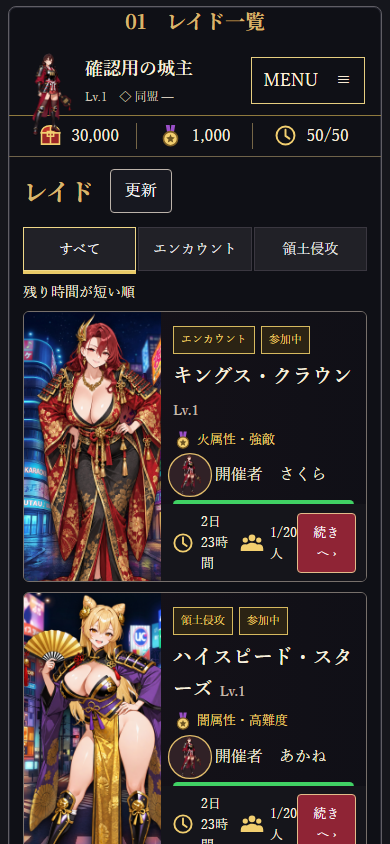
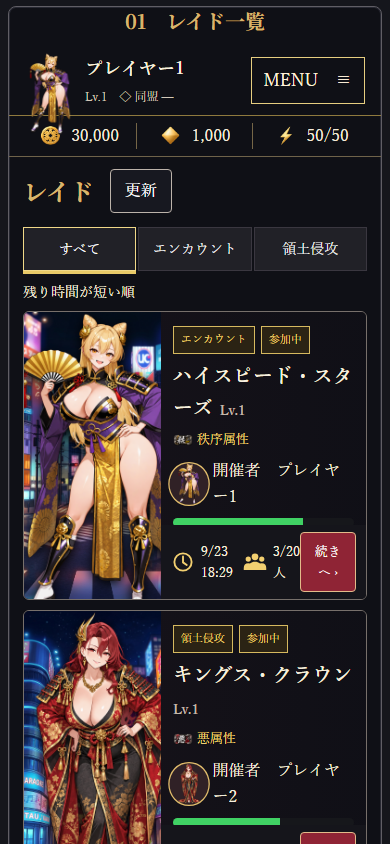
feat: integrate raid approved visual and formal data display

diff --git a/src/app/qa/raid-approved/ApprovedRaidPreview.tsx b/src/app/qa/raid-approved/ApprovedRaidPreview.tsx
@@ -1,59 +1,24 @@
 'use client';
-
-import { useState } from 'react';
-import { RAID_TOP_ENEMIES } from '@/domain/raidTopAssets';
+import { useMemo, useState } from 'react';
+import type { RaidTopEntry, RaidTopEnemy } from '@/domain/raidTop';
+import { createTopFixture } from '@/app/qa/raid-top/topFixture';
 import './ApprovedRaidPreview.css';
 
 type IconName = 'clock' | 'people' | 'swords' | 'scroll' | 'handshake' | 'chest' | 'armor' | 'victory' | 'medal';
 const icon = (name: IconName, label = '') => <img className="raid-approved__icon" src={`/ui/raid/${name}.svg`} alt={label} />;
-
-function ResourceHeader() {
-  return <>
-    <header className="raid-approved__header">
-      <div className="raid-approved__user"><img src="/characters/sakura_transparent_asset.png" alt="" /><div><strong>確認用の城主</strong><span>Lv.1　◇ 同盟 —</span></div></div>
-      <button className="raid-approved__menu" type="button">MENU　≡</button>
-    </header>
-    <div className="raid-approved__resources"><span>{icon('chest')}30,000</span><span>{icon('medal')}1,000</span><span>{icon('clock')}50/50</span></div>
-  </>;
-}
-
-function Footer() {
-  return <nav className="raid-approved__footer" aria-label="メインナビゲーション">{[
-    ['08-castle', 'ホーム'], ['04-fan-sakura', 'クエスト'], ['10-helmet', 'キャラ'], ['06-oni-mask', 'レイド'], ['11-ticket', 'ガチャ'],
-  ].map(([asset, label]) => <button className={label === 'レイド' ? 'is-active' : ''} key={label} type="button"><img src={`/ui/sengoku/${asset}.png`} alt="" /><span>{label}</span></button>)}</nav>;
-}
-
-function Hero({ enemy, compact = false }: { enemy: typeof RAID_TOP_ENEMIES[number]; compact?: boolean }) {
-  return <div className={`raid-approved__hero ${compact ? 'is-compact' : ''}`}>
-    <img className="raid-approved__hero-bg" src={enemy.backgroundUrl} alt="" />
-    <img className="raid-approved__hero-character" src={enemy.leaderImageUrl} alt="" />
-    <div className="raid-approved__hero-shade" />
-    <div className="raid-approved__boss-title"><h2>{enemy.bossName} <small>Lv.1</small></h2><span>{icon('medal')} 闇属性</span></div>
-  </div>;
-}
-
-function Owner({ name = 'あかね' }: { name?: string }) { return <div className="raid-approved__owner"><img src="/characters/sakura_transparent_asset.png" alt="" /><strong>開催者　{name}</strong></div>; }
-function Hp({ detail = false }: { detail?: boolean }) { return <div className="raid-approved__hp"><div className="raid-approved__hp-bar"><span /></div><div className="raid-approved__hp-text">{detail ? 'HP　200,000 / 200,000　(100%)' : 'HP 100%'}</div></div>; }
-function Meta() { return <div className="raid-approved__meta"><span>{icon('clock')}2日23時間</span><span>{icon('people')}1/20人</span></div>; }
-
+const attrLabel: Record<RaidTopEnemy['attribute'], string> = { EVIL: '悪', ORDER: '秩序', JUSTICE: '正義', CHAOS: '混沌', UNKNOWN: '未確認' };
+const attrIcon = (value: RaidTopEnemy['attribute']) => value === 'UNKNOWN' ? null : <img className="raid-approved__icon" src={`/ui/rarity/attribute-badge-${value.toLowerCase()}.png`} alt="" />;
+const fixture = createTopFixture('approved');
+const entries = fixture.participating.status === 'ready' ? fixture.participating.data : [];
+function owner(entry: RaidTopEntry) { return entry.room.owner.status === 'available' ? entry.room.owner.value : null; }
+function ResourceHeader({ entry }: { entry: RaidTopEntry }) { const player = owner(entry); const portrait = player?.leaderIconUrl.status === 'available' ? player.leaderIconUrl.value : null; return <><header className="raid-approved__header"><div className="raid-approved__user">{portrait && <img src={portrait} alt="" />}<div><strong>{player?.name ?? '開催者情報未確認'}</strong><span>Lv.1　◇ 同盟 —</span></div></div><button className="raid-approved__menu" type="button">MENU　≡</button></header><div className="raid-approved__resources"><span><img className="raid-approved__icon" src="/ui/sengoku/13-coin.png" alt="" />30,000</span><span><img className="raid-approved__icon" src="/ui/sengoku/16-diamond.png" alt="" />1,000</span><span><img className="raid-approved__icon" src="/ui/sengoku/14-energy.png" alt="" />50/50</span></div></>; }
+function Footer() { return <nav className="raid-approved__footer" aria-label="メインナビゲーション">{[['08-castle', 'ホーム'], ['04-fan-sakura', 'クエスト'], ['10-helmet', 'キャラ'], ['06-oni-mask', 'レイド'], ['11-ticket', 'ガチャ']].map(([asset, label]) => <button className={label === 'レイド' ? 'is-active' : ''} key={label} type="button"><img src={`/ui/sengoku/${asset}.png`} alt="" /><span>{label}</span></button>)}</nav>; }
+function Hero({ enemy, compact = false }: { enemy: RaidTopEnemy; compact?: boolean }) { return <div className={`raid-approved__hero ${compact ? 'is-compact' : ''}`}><img className="raid-approved__hero-bg" src={enemy.backgroundUrl} alt="" /><img className="raid-approved__hero-character" src={enemy.leaderImageUrl} alt="" /><div className="raid-approved__hero-shade" /><div className="raid-approved__boss-title"><h2>{enemy.bossName} <small>Lv.1</small></h2><span>{attrIcon(enemy.attribute)}{attrLabel[enemy.attribute]}属性</span></div></div>; }
+function Owner({ entry }: { entry: RaidTopEntry }) { const player = owner(entry); const portrait = player?.leaderIconUrl.status === 'available' ? player.leaderIconUrl.value : null; return <div className="raid-approved__owner">{portrait && <img src={portrait} alt="" />}<strong>開催者　{player?.name ?? '未確認'}</strong></div>; }
+function Hp({ entry, detail = false }: { entry: RaidTopEntry; detail?: boolean }) { const hp = entry.room.hp.status === 'available' ? entry.room.hp.value : null; const pct = hp ? Math.max(0, Math.min(100, hp.current / hp.max * 100)) : 0; return <div className="raid-approved__hp"><div className="raid-approved__hp-bar"><span style={{ width: `${pct}%` }} /></div><div className="raid-approved__hp-text">{detail && hp ? `HP　${hp.current.toLocaleString()} / ${hp.max.toLocaleString()}　(${pct.toFixed(0)}%)` : `HP ${hp ? `${pct.toFixed(0)}%` : '未確認'}`}</div></div>; }
+function Meta({ entry }: { entry: RaidTopEntry }) { const expiry = entry.room.expiresAt.status === 'available' ? new Date(entry.room.expiresAt.value).toLocaleString('ja-JP', { month: 'numeric', day: 'numeric', hour: '2-digit', minute: '2-digit' }) : '未確認'; const count = entry.room.participantCount.status === 'available' ? `${entry.room.participantCount.value}/20人` : '未確認'; return <div className="raid-approved__meta"><span>{icon('clock')}{expiry}</span><span>{icon('people')}{count}</span></div>; }
 function ActionTile({ iconName, label }: { iconName: IconName; label: string }) { return <button className="raid-approved__tile" type="button">{icon(iconName)}<span>{label}</span></button>; }
-
-function ListCard({ enemy, encounter = false }: { enemy: typeof RAID_TOP_ENEMIES[number]; encounter?: boolean }) {
-  return <article className="raid-approved__list-card"><div className="raid-approved__list-art"><img src={enemy.backgroundUrl} alt="" /><img src={enemy.leaderImageUrl} alt="" /></div><div className="raid-approved__list-copy"><div className="raid-approved__badges"><span>{encounter ? 'エンカウント' : '領土侵攻'}</span><span>参加中</span></div><h3>{enemy.bossName} <small>Lv.1</small></h3><p className="raid-approved__attribute">{icon('medal')} {encounter ? '火属性・強敵' : '闇属性・高難度'}</p><Owner name={encounter ? 'さくら' : 'あかね'} /><Hp /></div><div className="raid-approved__card-bottom"><Meta /><button type="button">続きへ ›</button></div></article>;
-}
-
-function Listing() {
-  const [tab, setTab] = useState('すべて');
-  const [first, second] = RAID_TOP_ENEMIES;
-  return <section className="raid-approved__screen"><div className="raid-approved__screen-head"><h1>レイド</h1><button type="button">更新</button></div><div className="raid-approved__tabs">{['すべて', 'エンカウント', '領土侵攻'].map(value => <button key={value} className={tab === value ? 'is-active' : ''} onClick={() => setTab(value)} type="button">{value}</button>)}</div><p className="raid-approved__sort">残り時間が短い順</p><div className="raid-approved__list"><ListCard enemy={first} encounter={tab !== '領土侵攻'} /><ListCard enemy={second} /></div><button className="raid-approved__ended" type="button">{icon('chest')}終了したレイド・未受取報酬 <b>›</b></button></section>;
-}
-
-function Detail({ lower = false }: { lower?: boolean }) {
-  const enemy = RAID_TOP_ENEMIES[1];
-  return <section className="raid-approved__screen raid-approved__detail-screen"><button className="raid-approved__back" type="button">‹ レイド一覧</button><Hero enemy={enemy} compact={lower} /><Owner /><Hp detail /><Meta />{!lower && <div className="raid-approved__tiles"><ActionTile iconName="swords" label="敵情報" /><ActionTile iconName="people" label="参加者" /><ActionTile iconName="scroll" label="報酬" /><ActionTile iconName="handshake" label="救援" /></div>}<div className="raid-approved__contribution"><h2>自分の貢献</h2><div className="raid-approved__damage">{icon('swords')}<span>累計ダメージ<strong>0</strong></span><button type="button">未挑戦</button></div><div className="raid-approved__stats"><span>{icon('armor')}挑戦　0戦</span><span>{icon('victory')}勝利　0勝</span></div><div className="raid-approved__eligibility"><span>討伐報酬資格まで<br /><b>あと3勝</b></span><div>{[1, 2, 3].map(i => <span key={i}>{icon('medal')}</span>)}</div></div><p>参加時の共通進行　Lv.1</p></div><button className="raid-approved__challenge" type="button">{icon('swords')}<strong>挑む</strong><span>{icon('clock')}消費行動力 5</span></button></section>;
-}
-
-export default function ApprovedRaidPreview() {
-  const screens = ['listing', 'detail', 'lower'] as const;
-  return <main className="raid-approved"><div className="raid-approved__board"><div className="raid-approved__panels">{screens.map((kind, index) => <div className="raid-approved__panel" key={kind}><h2 className="raid-approved__panel-title">{index === 0 && kind === 'listing' ? '01　レイド一覧' : kind === 'detail' ? '02　レイド詳細' : '03　詳細・下部'}</h2><ResourceHeader />{kind === 'listing' ? <Listing /> : <Detail lower={kind === 'lower'} />}<Footer /></div>)}</div></div></main>;
-}
+function ListCard({ entry }: { entry: RaidTopEntry }) { const enemy = entry.enemy.status === 'available' ? entry.enemy.value : null; const origin = entry.origin?.status === 'available' ? entry.origin.value : null; return <article className="raid-approved__list-card"><div className="raid-approved__list-art">{enemy && <><img src={enemy.backgroundUrl} alt="" /><img src={enemy.leaderImageUrl} alt="" /></>}</div><div className="raid-approved__list-copy"><div className="raid-approved__badges"><span>{origin === 'territory' ? '領土侵攻' : 'エンカウント'}</span><span>参加中</span></div><h3>{enemy?.bossName ?? '敵情報未確認'} <small>Lv.1</small></h3>{enemy && <p className="raid-approved__attribute">{attrIcon(enemy.attribute)}{attrLabel[enemy.attribute]}属性</p>}<Owner entry={entry} /><Hp entry={entry} /></div><div className="raid-approved__card-bottom"><Meta entry={entry} /><button type="button">続きへ ›</button></div></article>; }
+function Listing() { const [tab, setTab] = useState('すべて'); const shown = useMemo(() => [...entries].filter(entry => { const origin = entry.origin?.status === 'available' ? entry.origin.value : null; return tab === 'すべて' || (tab === 'エンカウント' && origin === 'encounter') || (tab === '領土侵攻' && origin === 'territory'); }).sort((a, b) => Date.parse(a.room.expiresAt.status === 'available' ? a.room.expiresAt.value : '') - Date.parse(b.room.expiresAt.status === 'available' ? b.room.expiresAt.value : '')), [tab]); return <section className="raid-approved__screen"><div className="raid-approved__screen-head"><h1>レイド</h1><button type="button">更新</button></div><div className="raid-approved__tabs">{['すべて', 'エンカウント', '領土侵攻'].map(value => <button key={value} className={tab === value ? 'is-active' : ''} onClick={() => setTab(value)} type="button">{value}</button>)}</div><p className="raid-approved__sort">残り時間が短い順</p><div className="raid-approved__list">{shown.map(entry => <ListCard key={entry.room.roomId} entry={entry} />)}</div><button className="raid-approved__ended" type="button">{icon('chest')}終了したレイド・未受取報酬 <b>›</b></button></section>; }
+function Detail({ lower = false }: { lower?: boolean }) { const entry = entries[1] ?? entries[0]; const enemy = entry.enemy.status === 'available' ? entry.enemy.value : null; return <section className="raid-approved__screen raid-approved__detail-screen"><button className="raid-approved__back" type="button">‹ レイド一覧</button>{enemy && <Hero enemy={enemy} compact={lower} />}<Owner entry={entry} /><Hp entry={entry} detail /><Meta entry={entry} />{!lower && <div className="raid-approved__tiles"><ActionTile iconName="swords" label="敵情報" /><ActionTile iconName="people" label="参加者" /><ActionTile iconName="scroll" label="報酬" /><ActionTile iconName="handshake" label="救援" /></div>}<div className="raid-approved__contribution"><h2>自分の貢献</h2><div className="raid-approved__damage">{icon('swords')}<span>累計ダメージ<strong>0</strong></span><button type="button">未挑戦</button></div><div className="raid-approved__stats"><span>{icon('armor')}挑戦　0戦</span><span>{icon('victory')}勝利　0勝</span></div><div className="raid-approved__eligibility"><span>討伐報酬資格まで<br /><b>あと3勝</b></span><div>{[1, 2, 3].map(i => <span key={i}>{icon('medal')}</span>)}</div></div><p>参加時の共通進行　Lv.1</p></div><button className="raid-approved__challenge" type="button">{icon('swords')}<strong>挑む</strong><span>{icon('clock')}消費行動力 5</span></button></section>; }
+export default function ApprovedRaidPreview() { const screens = ['listing', 'detail', 'lower'] as const; return <main className="raid-approved"><div className="raid-approved__board"><div className="raid-approved__panels">{screens.map((kind, index) => <div className="raid-approved__panel" key={kind}><h2 className="raid-approved__panel-title">{index === 0 ? '01　レイド一覧' : kind === 'detail' ? '02　レイド詳細' : '03　詳細・下部'}</h2><ResourceHeader entry={entries[0]} />{kind === 'listing' ? <Listing /> : <Detail lower={kind === 'lower'} />}<Footer /></div>)}</div></div></main>; }

diff --git a/src/app/components/raid/RaidTopApproved.tsx b/src/app/components/raid/RaidTopApproved.tsx
@@ -18,6 +18,8 @@ type Props = Pick<RaidTopData, 'participating' | 'rescues'> & {
 };
 
 const icon = (name: 'clock' | 'people' | 'chest' | 'medal') => <img className="raid-approved-ui__icon" src={`/ui/raid/${name}.svg`} alt="" />;
+const attributeLabel: Record<string, string> = { EVIL: '悪', ORDER: '秩序', JUSTICE: '正義', CHAOS: '混沌', UNKNOWN: '属性未確認' };
+const attributeIcon = (value: string) => value === 'UNKNOWN' ? null : <img className="raid-approved-ui__icon" src={`/ui/rarity/attribute-badge-${value.toLowerCase()}.png`} alt="" />;
 const ownerOf = (entry: RaidTopEntry): RaidPlayerSummary | null => entry.room.owner.status === 'available' ? entry.room.owner.value : null;
 const enemyOf = (entry: RaidTopEntry) => entry.enemy.status === 'available' ? entry.enemy.value : null;
 
@@ -36,14 +38,21 @@ function Hp({ entry, now, compact = false }: { entry: RaidTopEntry; now: number 
 
 function Card({ entry, now, resolve, onOpenRoom, disabled, rescue }: { entry: RaidTopEntry; now: number | null; resolve: Props['resolve']; onOpenRoom: Props['onOpenRoom']; disabled?: boolean; rescue?: boolean }) {
   const enemy = enemyOf(entry);
-  return <article className="raid-approved-ui__card"><div className="raid-approved-ui__card-art">{enemy && <><img src={resolve(enemy.backgroundUrl)} alt="" /><img src={resolve(enemy.leaderImageUrl)} alt="" /></>}</div><div className="raid-approved-ui__card-copy"><div className="raid-approved-ui__badges"><span>{rescue ? '救援' : getRaidDifficultyLabel(entry.room.difficultyId)}</span><span>{rescue ? '参加可能' : '参加中'}</span></div><h3>{enemy?.bossName ?? '敵情報未確認'} <small>Lv.1</small></h3><Owner entry={entry} resolve={resolve}/><Hp entry={entry} now={now} compact={rescue}/><OutlawButton loadingLabel="" variant="primary" disabled={disabled} onClick={() => onOpenRoom(entry.room.roomId, entry.rescue.status === 'available' ? entry.rescue.value.rescueId : undefined)}>{rescue ? '救援に向かう' : '続きへ'} ›</OutlawButton></div></article>;
+  const attribute = enemy?.attribute ?? 'UNKNOWN';
+  return <article className="raid-approved-ui__card"><div className="raid-approved-ui__card-art">{enemy && <><img src={resolve(enemy.backgroundUrl)} alt="" /><img src={resolve(enemy.leaderImageUrl)} alt="" /></>}</div><div className="raid-approved-ui__card-copy"><div className="raid-approved-ui__badges"><span>{rescue ? '救援' : getRaidDifficultyLabel(entry.room.difficultyId)}</span><span>{rescue ? '参加可能' : '参加中'}</span></div><h3>{enemy?.bossName ?? '敵情報未確認'} <small>Lv.1</small></h3><p className="raid-approved-ui__attribute">{attributeIcon(attribute)}{attributeLabel[attribute]}属性</p><Owner entry={entry} resolve={resolve}/><Hp entry={entry} now={now} compact={rescue}/><OutlawButton loadingLabel="" variant="primary" disabled={disabled} onClick={() => onOpenRoom(entry.room.roomId, entry.rescue.status === 'available' ? entry.rescue.value.rescueId : undefined)}>{rescue ? '救援に向かう' : '続きへ'} ›</OutlawButton></div></article>;
 }
+
+function remaining(entry: RaidTopEntry): number {
+  return entry.room.expiresAt.status === 'available' ? Date.parse(entry.room.expiresAt.value) : Number.POSITIVE_INFINITY;
+}
+function byRemaining(entries: readonly RaidTopEntry[]) { return [...entries].sort((a, b) => remaining(a) - remaining(b)); }
 
 export default function RaidTopApproved({ participating, rescues, now, resolve, onOpenRoom, onOpenRewards, onRefresh, disabled }: Props) {
   const [tab, setTab] = useState<'all' | 'encounter' | 'territory'>('all');
-  const joined = participating.status === 'ready' ? participating.data : [];
-  const help = rescues.status === 'ready' ? rescues.data : [];
-  const visibleJoined = tab === 'territory' ? joined.filter(entry => entry.room.difficultyId !== 'beginner') : tab === 'encounter' ? joined.filter(entry => entry.room.difficultyId === 'beginner') : joined;
+  const joined = participating.status === 'ready' ? byRemaining(participating.data) : [];
+  const help = rescues.status === 'ready' ? byRemaining(rescues.data) : [];
+  const origin = (entry: RaidTopEntry) => entry.origin?.status === 'available' ? entry.origin.value : null;
+  const visibleJoined = tab === 'territory' ? joined.filter(entry => origin(entry) === 'territory') : tab === 'encounter' ? joined.filter(entry => origin(entry) === 'encounter') : joined;
   const visibleHelp = tab === 'all' ? help.slice(0, 1) : [];
   const empty = visibleJoined.length === 0 && visibleHelp.length === 0;
   const tabs = useMemo(() => [['all', 'すべて'], ['encounter', 'エンカウント'], ['territory', '領土侵攻']] as const, []);

diff --git a/src/app/qa/raid-top/topFixture.ts b/src/app/qa/raid-top/topFixture.ts
@@ -10,7 +10,7 @@ const unknown = { status: 'unknown' } as const;
 /** 明示Mock専用。人物/戦況はQAデータ、敵の名前・5体編成・画像は現行マスター。 */
 export function createTopFixture(scenario: TopScenario, now = Date.now(), areaOffset = 0): RaidTopData {
   const enemyAt = (index: number) => RAID_TOP_ENEMIES[((scenario === 'approved' && index < 2 ? 1 - index : index) + areaOffset) % RAID_TOP_ENEMIES.length];
-  const player = (index: number): RaidPlayerSummary => ({ userId: `qa-person-${index}`, name: scenario === 'long-name' ? '確認用の非常に長い名前ABCDEFGHIJKLMN挑戦者' : `確認用挑戦者${index + 1}`, leaderIconUrl: known(scenario === 'broken-image' ? '/qa-missing-image.png' : enemyAt(index).leaderImageUrl) });
+  const player = (index: number): RaidPlayerSummary => ({ userId: `qa-person-${index}`, name: scenario === 'long-name' ? '非常に長い名前ABCDEFGHIJKLMN' : `プレイヤー${index + 1}`, leaderIconUrl: known(scenario === 'broken-image' ? '/qa-missing-image.png' : enemyAt(index).leaderImageUrl) });
   const entry = (index: number, rescue: boolean): RaidTopEntry => {
     const enemy = enemyAt(index);
     const state = scenario === 'ended' ? (index % 2 ? 'expired' : 'cleared') : 'active';
@@ -19,9 +19,10 @@ export function createTopFixture(scenario: TopScenario, now = Date.now(), areaOf
         state: known(state), createdAt: known(new Date(now - 3600000).toISOString()), expiresAt: known(new Date(now + (state === 'expired' ? -1000 : (index + 1) * 3600000)).toISOString()), endedAt: known(state === 'active' ? null : new Date(now).toISOString()),
         hp: scenario === 'unknown' ? unknown : known({ current: state === 'cleared' ? 0 : scenario === 'returned' ? 2200000 : 7200000 - index * 1300000, max: 10000000 }), participantCount: scenario === 'unknown' ? unknown : known(3 + index), serverEligibility: unknown },
       enemy: known(scenario === 'broken-image' ? { ...enemy, leaderImageUrl: '/qa-missing-image.png', backgroundUrl: '/qa-missing-background.png', roster: enemy.roster.map(member => ({ ...member, imageUrl: '/qa-missing-image.png' })) } : enemy),
-      ownerGuild: scenario === 'unknown' ? unknown : known(scenario === 'no-guild' ? null : { guildId: 'qa-guild', name: scenario === 'long-name' ? '確認用のとても長いギルド名ABCDEFGHIJKLMN' : '確認用Guild' }),
+      ownerGuild: scenario === 'unknown' ? unknown : known(scenario === 'no-guild' ? null : { guildId: 'qa-guild', name: scenario === 'long-name' ? 'とても長いギルド名ABCDEFGHIJKLMN' : 'Guild' }),
       participants: scenario === 'unknown' ? unknown : known([player(0), player(1), player(2)]), membership: known(rescue ? 'not_joined' : (['owner', 'member', 'rescue'] as const)[index % 3]),
       rescue: rescue ? known({ rescueId: `qa-rescue-reference-${index}`, source: index % 2 ? 'guild_chat' : 'activity' }) : unknown,
+      origin: known(index % 2 === 0 ? 'encounter' : 'territory'),
     };
   };
   if (scenario === 'loading' || scenario === 'error' || scenario === 'unavailable') return { participating: { status: scenario }, rescues: { status: scenario }, dailyTargets: { status: scenario }, canCreate: false };

diff --git a/src/domain/gameplay/canonical/combat_production.ts b/src/domain/gameplay/canonical/combat_production.ts
@@ -1,6 +1,7 @@
 import pvpSource from "./data/pvp_production_20260830.json" with { type: "json" };
 import matchmakingSource from "./data/pvp_matchmaking_20260822.json" with { type: "json" };
 import raidSource from "./data/raid_production_20260830.json" with { type: "json" };
+import raidBossSource from "./data/raid_bosses_20260822.json" with { type: "json" };
 import raidRewardsSource from "./data/raid_rewards_20260830.json" with { type: "json" };
 import rankingSource from "./data/ranking_competition_20260822.json" with { type: "json" };
 import rankingRewardsSource from "./data/ranking_season_rewards_20260830.json" with { type: "json" };
@@ -10,6 +11,9 @@ export const CANONICAL_PVP_MATCHMAKING = Object.freeze(matchmakingSource);
 export const CANONICAL_RANKING_REWARDS = Object.freeze(rankingRewardsSource);
 export const CANONICAL_PVP_RANKING_REWARDS = Object.freeze(rankingRewardsSource);
 export const CANONICAL_RAID_PRODUCTION = Object.freeze(raidSource);
+export const CANONICAL_RAID_ATTRIBUTE_MASTER = Object.freeze(
+  Object.fromEntries(raidBossSource.bosses.map((boss) => [boss.townId.toLowerCase(), boss.attribute])),
+);
 export const CANONICAL_RAID_BOSSES = Object.freeze({
   version: raidSource.version,
   bosses: raidSource.variants.map((variant) => ({
@@ -17,7 +21,7 @@ export const CANONICAL_RAID_BOSSES = Object.freeze({
     townId: variant.areaId.toLowerCase(),
     displayName: variant.raidName,
     profileType: "PARTY",
-    attribute: "NEUTRAL",
+    attribute: CANONICAL_RAID_ATTRIBUTE_MASTER[variant.areaId.toLowerCase()] ?? "UNKNOWN",
     referenceLevel: 30,
     maxHp: variant.maxHp,
     atk: variant.atk,

diff --git a/src/domain/raidTopAssets.ts b/src/domain/raidTopAssets.ts
@@ -1,4 +1,4 @@
-import { CANONICAL_RAID_PRODUCTION } from '@/domain/gameplay/canonical/combat_production';
+import { CANONICAL_RAID_ATTRIBUTE_MASTER, CANONICAL_RAID_PRODUCTION } from '@/domain/gameplay/canonical/combat_production';
 import { CHARACTERS_MASTER, getCanonicalBattleAreaName, getCanonicalBattleBackground, getCharacterTransparentImg } from '@/utils/game_constants';
 import type { RaidTopEnemy } from './raidTop';
 
@@ -17,7 +17,7 @@ export function resolveRaidTopEnemy(variantId: string, memberCharacterIds?: read
   });
   if (!areaName || !backgroundUrl || roster.length !== 5 || roster.some((entry) => entry === null)) return null;
   const members = roster.filter((entry): entry is NonNullable<typeof entry> => entry !== null);
-  return { variantId, baseId, areaName, bossName: variant.raidName, backgroundUrl, leaderImageUrl: members[0].imageUrl, roster: members };
+  return { variantId, baseId, areaName, bossName: variant.raidName, attribute: (CANONICAL_RAID_ATTRIBUTE_MASTER[baseId] ?? 'UNKNOWN') as RaidTopEnemy['attribute'], backgroundUrl, leaderImageUrl: members[0].imageUrl, roster: members };
 }
 
 /** 全7エリアの素材目録。『本日の対象』ではない。 */

diff --git a/src/domain/raidTop.ts b/src/domain/raidTop.ts
@@ -12,10 +12,13 @@ export interface RaidTopEnemy {
   readonly baseId: string;
   readonly areaName: string;
   readonly bossName: string;
+  readonly attribute: 'EVIL' | 'ORDER' | 'JUSTICE' | 'CHAOS' | 'UNKNOWN';
   readonly backgroundUrl: string;
   readonly leaderImageUrl: string;
   readonly roster: readonly { readonly id: string; readonly name: string; readonly imageUrl: string }[];
 }
+
+export type RaidOrigin = 'encounter' | 'territory';
 
 export interface RaidTopEntry {
   readonly room: RaidRoomDto;
@@ -24,6 +27,8 @@ export interface RaidTopEntry {
   readonly participants: RaidObserved<readonly RaidPlayerSummary[]>;
   readonly membership: RaidObserved<'owner' | 'member' | 'rescue' | 'not_joined'>;
   readonly rescue: RaidObserved<{ readonly rescueId: string; readonly source: 'activity' | 'guild_chat'; readonly scope?: 'ACTIVITY' | 'GUILD'; readonly guildId?: string | null }>;
+  /** RPCが返す正式分類。未提供時はunknownのまま保持し、difficultyIdで推測しない。 */
+  readonly origin?: RaidObserved<RaidOrigin>;
 }
 
 /** 日次正本の返値を受け取る。全7エリアやクライアント独自抽選で代替しない。 */

diff --git a/src/domain/raidTopData.ts b/src/domain/raidTopData.ts
@@ -93,6 +93,10 @@ async function entry(value: unknown): Promise<RaidTopEntry> {
       }
       throw new Error('Invalid raid top rescue scope');
     }),
+    ...(item.origin === undefined ? {} : { origin: observed(item.origin, (value) => {
+      if (value !== 'encounter' && value !== 'territory') throw new Error('Invalid raid top origin');
+      return value;
+    }) }),
   };
 }
 async function resource<T>(value: unknown, parse: (value: unknown) => Promise<T>): Promise<RaidTopResource<T>> {

diff --git a/docs/design/raid/2026-09-23/IMPLEMENTATION_VERIFICATION.md b/docs/design/raid/2026-09-23/IMPLEMENTATION_VERIFICATION.md
@@ -5,7 +5,9 @@
 | 境界 | 結果 | 接続先 |
 |---|---|---|
 | レイド本体トップ | PASS | `RaidRoomConnectedBrowser → RaidTop → RaidTopApproved` |
-| ボス／背景 | PASS | `resolveRaidTopEnemy` / `CANONICAL_RAID_PRODUCTION` / canonical character & background assets |
+| ボス／背景 | PARTIAL | `resolveRaidTopEnemy` が `CANONICAL_RAID_PRODUCTION` と既存表示素材を解決。背景パスは現行マスターに代替の正式レイド背景がないため、旧表示マッピングの残件を明示 |
+| 属性 | PASS (source version noted) | `raid_bosses_20260822.json` の正式凍結属性を `CANONICAL_RAID_ATTRIBUTE_MASTER` 経由で表示。2026-08-30 raid production本体に属性列がないため、戦闘値の変更はしていない |
+| レイド分類 | PARTIAL | RPCに `origin` がある場合のみ `encounter` / `territory` を使用。未提供時は `difficultyId` で推測せず未分類のまま |
 | 開催者 | PASS | `RaidTopEntry.room.owner` の `userId` / `name` / `leaderIconUrl`。閲覧者・最後の参加者で代用しない |
 | Room詳細 | PASS | `RaidRoomDetail`。`briefing`、`display`、`participants`、`room.hp`、lifecycle を既存 resource から表示 |
 | 詳細アクション | PASS | 敵情報・参加者・報酬・救援を既存Dialog callbackへ接続 |
@@ -20,10 +22,11 @@
 - 本体トップ：`comparison/raid-body-top-390.png`
 - 本体詳細：`comparison/raid-body-detail-390.png`
 - 確認ルート：`/qa/raid-top`、`/qa/raid-detail`、`/qa/raid-approved`
-- Mock環境でHTTP 200、一覧3フィルタ、続きへ、詳細2列アクション、挑むCTA、390px表示を確認。
+- Mock環境でHTTP 200、一覧3フィルタ、続きへ、詳細2列アクション、挑むCTA、390px表示を確認。実本体の一覧・詳細・詳細下部を同じデータ契約で再確認する。
 - QA専用ツールバー、Mockシナリオ説明、戦闘帰還Mock、比較用の実装注記は本体表示から除去した。
 - 詳細アクションは2列×2行に修正し、時計・人数・挑戦・行動力のUnicode代用を専用SVGへ統一した。
-- 本体の正式canonical画像は承認モックの検討画像とは異なるため、画像差分を隠さず正式素材由来の差分として扱う。GAME03素材への差替えは行っていない。
+- 本体の表示は `RaidTopEntry.room.owner` と `room.hp`、`participantCount`、`expiresAt`、敵属性を直接参照する。承認モック固有の固定名・固定HP・固定キャラ画像は残していない。
+- 本体の正式表示背景に旧エリア背景マッピングが残っている。GAME03素材への差替えは行っていないが、正式GAME04レイド背景の供給・マッピング確定が必要。
 
 ## 素材
 
@@ -45,7 +48,8 @@
 
 | 区分 | 残件 | 完了扱い |
 |---|---|---|
-| 正式データ | 一覧の属性表示は `RaidTopData` 契約に正式属性値がないため、架空の属性文を追加せず省略 | 未完了。正式属性データの供給待ち |
+| 正式データ | 最新raid production本体に属性列とorigin列がない。属性は旧正式凍結boss masterを参照して表示し、origin未提供時は分類を推測しない | 属性表示は実装済み。最新本体への属性/origin統合は未接続 |
+| 素材・背景 | `getCanonicalBattleBackground` が `bg_street_*.jpg` を参照。正式GAME04レイド背景の確定マッピングが未供給 | 未完了。素材制作・正本マッピング待ち |
 | 素材供給 | `public/ui/raid/` のSVG9種は比較用の未承認制作物。正式共通アイコン供給後に差替え | 未完了。正式採用済みとして扱わない |
 | QA検証 | Mock RPCに `get_quest_raid_bonus_v1` の未処理呼出しが残る。PGRST202相当では画面表示を阻害しないが、console clean受入にはQA stubまたは正式RPCが必要 | 未完了。供給／接続待ち |
 

diff --git a/docs/design/raid/2026-09-23/ASSET_REQUIREMENTS.md b/docs/design/raid/2026-09-23/ASSET_REQUIREMENTS.md
@@ -14,12 +14,12 @@
 | 勝利数 | 金色の勝利意匠 | `public/ui/raid/victory.svg`を制作・接続。19px表示、透過SVG。正式共通素材への差替え対象 |
 | 報酬資格進捗 | 丸いメダリオン内の意匠 | `public/ui/raid/medal.svg`を制作・接続。18–28px表示、透過SVG。未達／達成状態の正式差替え対象 |
 | 通貨・行動力 | 正式な銭・輝石・行動力 | 既存接続確認 |
-| 属性 | GAME04正式6属性 | モックの簡略図を新正本にしない |
+| 属性 | GAME04正式6属性 | `raid_bosses_20260822.json` のEVIL/ORDER/JUSTICE/CHAOSを表示接続。残りエリアの正式属性と最新productionへの統合は未確定 |
 | 開催者顔 | 対応キャラの正式顔クロップ | 開催者データ接続確認 |
 | ボス・背景 | 正式武将と対応背景 | 素材対応確認 |
 | Header／Footer | 共通正式アイコン | 既存接続維持 |
 
-採用元：ボス／背景は`src/domain/raidTopAssets.ts`経由の正式canonical素材、開催者顔は開催者IDに紐づく表示データへ接続する固定Preview実装。今回制作した9図柄は承認モックに不足していた専用図柄であり、正式アート監修済み共通アイコンではない。Production公開前に共通素材担当が正式版を供給し、同一パスまたは明示マッピングで置換する。
+採用元：ボス／背景は`src/domain/raidTopAssets.ts`経由の現行マスター解決、開催者顔は`RaidTopEntry.room.owner`の開催者IDに紐づく表示データ。背景の正式GAME04レイド素材は未確定のため旧背景マッピングを残件として記録する。今回制作した9図柄は承認モックに不足していた専用図柄であり、正式アート監修済み共通アイコンではない。Production公開前に共通素材担当が正式版を供給し、同一パスまたは明示マッピングで置換する。
 
 比較画像：`comparison/raid-approved-preview-1536.png`、`comparison/raid-approved-preview-390.png`。固定Preview：`/qa/raid-approved`（Mock環境のみ）。
 不足はユーザー側の制作へ渡せる具体的な依頼にする。無理な代用・無断生成・装飾省略はしない。

diff --git a/docs/design/raid/2026-09-23/comparison/comparison-inventory.md b/docs/design/raid/2026-09-23/comparison/comparison-inventory.md
@@ -1,0 +1,13 @@
+# レイド承認モック比較・検証対象
+
+指示SHA: `20f87f9a81b235a15eab6111237d8d18c665e569`
+
+| 対象 | 固定画像 | 確認内容 |
+|---|---|---|
+| 承認3面 desktop | `raid-approved-preview-1536.png` | 一覧・詳細・詳細下部の配置、余白、画像サイズ、装飾 |
+| 承認3面 mobile | `raid-approved-preview-390.png` | 390px幅での折返し、カード画像、下部ナビ |
+| 本体一覧 | `raid-body-top-390.png` | 正式敵・開催者・属性・HP・参加者・残り時間順・分類タブ |
+| 本体詳細 | `raid-body-detail-390.png` | 開催者、HP、参加者、詳細アクション、挑む導線 |
+| 本体詳細下部 | `raid-body-detail-lower-390.png` | 貢献、報酬資格、行動力CTA、下部余白 |
+
+画像はこのコミットにバイナリとして保存し、実装・検証記録と同一SHAで参照できる状態にする。属性画像は `public/ui/rarity/attribute-badge-*.png` の正式既存素材を使用し、レイド専用9 SVGは未承認制作物として扱う。
